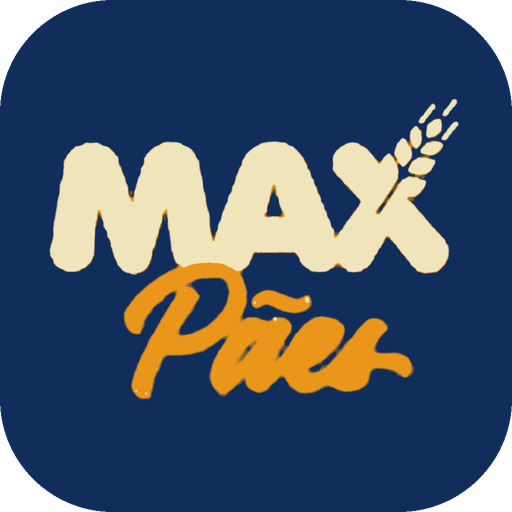
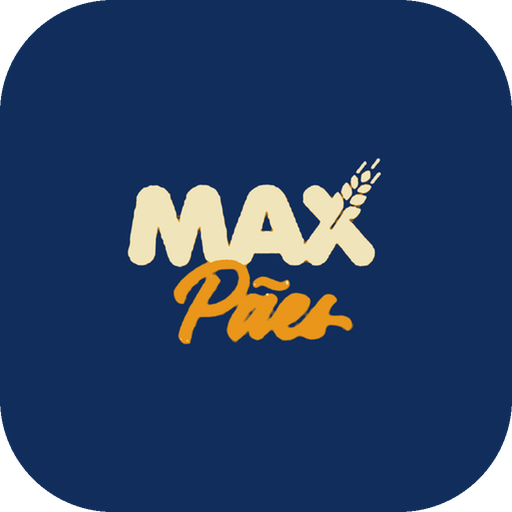
Um aparelho por conta (com liberar no painel) e ícone instalado igual à abertura
Claude-Session: https://claude.ai/code/session_01WhFhfyNL66BR5brFEaCnjw

Changed region(s): [[0.0938, 0.1875, 0.9062, 0.7812]]

diff --git a/index.html b/index.html
@@ -7,7 +7,7 @@
 <meta name="theme-color" content="#1f4fa8">
 <link rel="manifest" href="manifest.webmanifest">
 <link rel="icon" href="icon-192.png">
-<link rel="apple-touch-icon" href="icon-512.png">
+<link rel="apple-touch-icon" href="icon-maskable-512.png">
 <link rel="preload" as="image" href="logo-app.webp">
 <link rel="stylesheet" href="https://fonts.googleapis.com/css2?family=Archivo:wght@400;600;800&display=swap">
 <style>
@@ -942,6 +942,11 @@ const FIREBASE_CONFIG={apiKey:"AIzaSyARohr-gd-yUzcTM4ZrVOp345dKI0_2x_s",authDoma
 const FBV="10.12.2",DONO_UID="CDcwBbB7M1aLDRmGM74p45UDnLz1";
 const nv={db:null,uid:null,pend:new Set(),del:new Set(),cfg:false,t:null,msg:"",tomb:new Set(),tombSujo:false,tk:0};
 const lsG=k=>{try{return localStorage.getItem(k)}catch(e){return null}},lsS=(k,v)=>{try{localStorage.setItem(k,v)}catch(e){}};
+function dispId(){let v=lsG("mpv:disp");if(!v){try{v=crypto.randomUUID()}catch(e){v=Date.now().toString(36)+Math.random().toString(36).slice(2)}lsS("mpv:disp",v)}return v}
+function dispNome(){const u=navigator.userAgent||"";return /iPhone|iPad|iPod/.test(u)?"iPhone/iPad":/Android/.test(u)?"Android":/Windows/.test(u)?"Windows":/Mac OS/.test(u)?"Mac":"Computador"}
+async function liberaDisp(){try{const u=fbAuth&&fbAuth.currentUser;if(!u||!fbDb||!perfil||perfil.papel==="developer")return;
+  if((perfil.disp||"")!==dispId())return;
+  await fbDb.collection("vendedores").doc(u.uid).set({disp:"",dispNome:"",dispEm:0},{merge:true})}catch(e){}}
 function stNuvem(t){nv.msg=t;const e=$("nvst");if(e)e.textContent=t}
 function cfgTs(){try{return +(localStorage.getItem("maxpaes:cfgts")||0)}catch(e){return 0}}
 function marcaCfg(){try{localStorage.setItem("maxpaes:cfgts",String(Date.now()))}catch(e){}nv.cfg=true;agendaNuvem()}
@@ -1023,7 +1028,7 @@ $("lgb").onclick=async()=>{const b=$("lgb"),nome=U($("lgn").value).trim(),em=$("
 ["lgn","lge","lgs","lgs2","lgs3"].forEach(id=>$(id).addEventListener("keydown",e=>{if(e.key==="Enter")$("lgb").click()}));
 $("lgn").addEventListener("input",e=>{const el=e.target,u=el.value.toUpperCase();if(u!==el.value)el.value=u});
 $("sair").onclick=async()=>{const b=$("sair");if(b.dataset.c!=="1"){b.dataset.c="1";b.textContent="Confirmar saída?";setTimeout(()=>{b.dataset.c="";b.textContent="Sair da conta"},3000);return}
-  if(tSalvar)salvar();await enviaNuvem();if(unsub){unsub();unsub=null}supDesliga();nv.db=null;perfil=null;mostraVendedor();$("hs").classList.remove("on");try{await fbAuth.signOut()}catch(e){}};
+  if(tSalvar)salvar();await enviaNuvem();await liberaDisp();if(unsub){unsub();unsub=null}supDesliga();nv.db=null;perfil=null;mostraVendedor();$("hs").classList.remove("on");try{await fbAuth.signOut()}catch(e){}};
 function carregaScript(src){return new Promise((ok,er)=>{const s=document.createElement("script");s.src=src;s.onload=ok;s.onerror=er;document.head.appendChild(s)})}
 const CHAVES_APP=()=>{const l=[];try{for(let i=0;i<localStorage.length;i++){const k=localStorage.key(i);if(/^maxpaes:|^mpv:/.test(k))l.push(k)}}catch(e){}return l};
 // ===== Painel do supervisor =====
@@ -1091,11 +1096,14 @@ function supRender(){if(!$("sp").classList.contains("on"))return;supGerencia();
 }
 function supGerencia(){const L=$("sgacc");if(!L)return;L.innerHTML="";const me=fbAuth&&fbAuth.currentUser?fbAuth.currentUser.uid:"";const dono=me===DONO_UID;$("sgv").hidden=!dono;if(!dono)return;
   Object.keys(sup.vend).sort((a,b)=>nomeV(a).localeCompare(nomeV(b),"pt-BR")).forEach(uid=>{const v=sup.vend[uid]||{};const r=document.createElement("div");r.className="gr";
-    r.innerHTML="<span class='gn'><b>"+esc(nomeV(uid))+"</b>"+(v.papel&&v.papel!=="vendedor"?" · "+rotP(v.papel).toLowerCase():"")+"<small>"+esc(v.email||"")+(v.trocarSenha?" · aguardando 1º acesso":"")+(v.ativo===false?" · <span class='off'>"+(v.pendente?"pedido de acesso":"desativado")+"</span>":"")+"</small></span>";
+    r.innerHTML="<span class='gn'><b>"+esc(nomeV(uid))+"</b>"+(v.papel&&v.papel!=="vendedor"?" · "+rotP(v.papel).toLowerCase():"")+"<small>"+esc(v.email||"")+(v.trocarSenha?" · aguardando 1º acesso":"")+(v.disp?" · "+esc(v.dispNome||"aparelho")+" conectado":"")+(v.ativo===false?" · <span class='off'>"+(v.pendente?"pedido de acesso":"desativado")+"</span>":"")+"</small></span>";
     const rs=document.createElement("button");rs.className="sec";rs.textContent="Redefinir senha";
     rs.onclick=async()=>{if(!v.email)return;if(rs.dataset.c!=="1"){rs.dataset.c="1";rs.textContent="Enviar e-mail?";setTimeout(()=>{rs.dataset.c="";rs.textContent="Redefinir senha"},3000);return}
       try{await fbAuth.sendPasswordResetEmail(v.email);rs.textContent="E-mail enviado"}catch(e){rs.textContent="Falhou"}};
     r.appendChild(rs);
+    if(uid!==me&&v.disp){const lb=document.createElement("button");lb.className="sec";lb.textContent="Liberar aparelho";
+      lb.onclick=async()=>{if(lb.dataset.c!=="1"){lb.dataset.c="1";lb.textContent="Confirmar?";setTimeout(()=>{lb.dataset.c="";lb.textContent="Liberar aparelho"},3000);return}
+        try{await fbDb.collection("vendedores").doc(uid).set({disp:"",dispNome:"",dispEm:0},{merge:true});lb.textContent="Liberado"}catch(e){lb.textContent="Falhou"}};r.appendChild(lb)}
     if(uid!==me){const pf=document.createElement("select");pf.className="sec";pf.setAttribute("aria-label","Perfil");[["vendedor","Vendedor"],["promotor","Promotor"],["supervisor","Supervisor"]].forEach(([k,t])=>{const o=document.createElement("option");o.value=k;o.textContent=t;pf.appendChild(o)});pf.value=["promotor","supervisor"].includes(v.papel)?v.papel:"vendedor";
       pf.onchange=async()=>{try{await fbDb.collection("vendedores").doc(uid).set({papel:pf.value},{merge:true})}catch(e){pf.value=v.papel||"vendedor"}};r.appendChild(pf)}
     if(uid!==me){const at=document.createElement("button");at.className="sec";const rotAt=v.ativo===false?(v.pendente?"Liberar":"Reativar"):"Desativar";at.textContent=rotAt;
@@ -1300,6 +1308,11 @@ async function entrou(u){
              :"Seu acesso ainda não foi liberado."+errB+" ["+u.uid+"]");return}
   perfil={...ps.data()};if(!perfil.nome)perfil.nome=U((u.email||"").split("@")[0]);
   if(perfil.ativo===false){barra(perfil.pendente?"Pedido de acesso enviado. Aguarde a liberação e entre de novo.":"Seu acesso está desativado.");return}
+  if(perfil.papel!=="developer"){
+    const meu=dispId(),dp=perfil.disp||"";
+    if(dp&&dp!==meu){barra("Esta conta já está aberta em outro aparelho"+(perfil.dispNome?" ("+perfil.dispNome+")":"")+". Saia da conta nele ou peça para liberar.");return}
+    if(!dp){try{await pref.set({disp:meu,dispNome:dispNome(),dispEm:Date.now()},{merge:true});perfil.disp=meu}catch(e){barra("Não deu para registrar este aparelho. Tente de novo.");return}}
+  }
   pref.set({ultimoAcesso:Date.now()},{merge:true}).catch(()=>{});
   lsS("mpv:nome",perfil.nome);mostraVendedor();
   const seguir=async()=>{nv.db=fbDb;nv.uid=u.uid;supPronto();await sincroniza();escuta()};
@@ -2027,7 +2040,7 @@ function pintaOff(){pintaBarras()}
 window.addEventListener("online",()=>{pintaOff();try{agendaNuvem()}catch(e){}});
 window.addEventListener("offline",pintaOff);pintaOff();
 /* nova versão */
-const VER="39";
+const VER="40";
 let swReg=null,pediuAtt=false,recarregando=false;
 function mostraAtt(w){const e=$("attb");if(!e||e.dataset.on==="1")return;e.dataset.on="1";pintaBarras();
   $("attok").onclick=()=>{$("attok").textContent="Atualizando…";pediuAtt=true;

diff --git a/sw.js b/sw.js
@@ -1,6 +1,6 @@
 // Max Pães · Vendedor — funciona sem internet.
 // A página principal busca primeiro na rede (para receber atualizações) e usa o cache se estiver sem sinal.
-const CACHE = "mpv-v39";
+const CACHE = "mpv-v40";
 const BASE = ["./", "./index.html", "./manifest.webmanifest", "./icon-192.png", "./icon-512.png", "./icon-maskable-512.png", "./logo-app.webp"];
 self.addEventListener("install", e => { e.waitUntil(caches.open(CACHE).then(c => c.addAll(BASE))); });
 self.addEventListener("activate", e => { e.waitUntil(caches.keys().then(ks => Promise.all(ks.filter(k => k !== CACHE).map(k => caches.delete(k)))).then(() => self.clients.claim())); });
